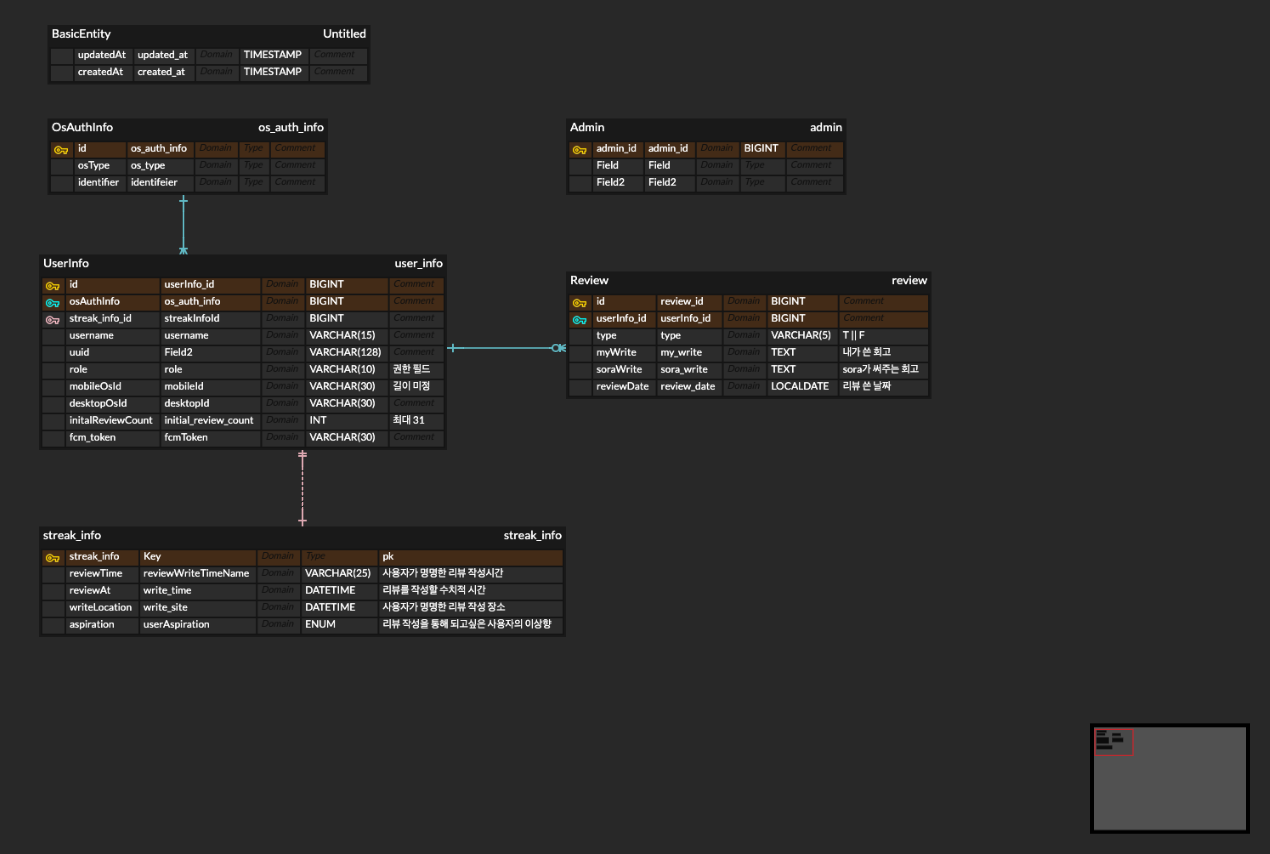
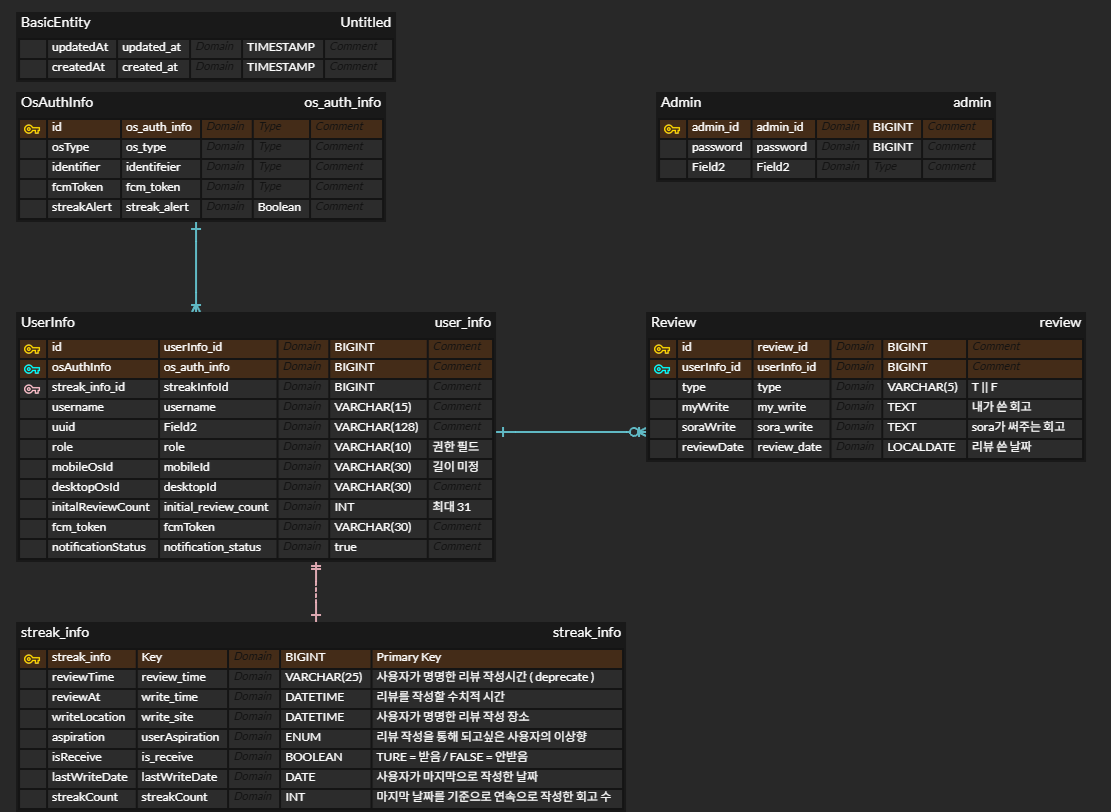
docs: readme 수정

diff --git a/README.md b/README.md
@@ -23,11 +23,11 @@
 
 🐚 소라의 마법에서는 사용자가 작성한 회고 내용에 대해 **AI Agent**인 소라가 응답을 제공합니다. 내가 원하는 **성격**의 소라와 이야기를 하다 보면, 마법처럼 **회고 습관을 쉽고 재미있게** 그리고 확실하게 만들 수 있을 거예요!
 
-<a href="https://magicofconch.notion.site/fae88808dbe2490ca833fb4ef6cc49c1?pvs=74"> 서비스 공식 페이지 </a> 
+<a href="https://magicofconch.notion.site/fae88808dbe2490ca833fb4ef6cc49c1?pvs=74"> 서비스 공식 페이지 </a>
 
 # 🎈 주요 기능
 
-## 회고 작성 및 AI 리뷰 
+## 회고 작성 및 AI 리뷰
 
 <table>
   <tr>
@@ -40,13 +40,23 @@
       리뷰는 LLM을 통해서 스트리밍 됩니다. <br>
     </td>
   </tr>
+
+  <tr>
+    <td>
+      <img src="./readme/CalendarView.gif" width="300">
+    </td>
+    <td>
+      작성한 회고를 캘린더뷰 형태로 제공합니다. <br>
+      사용자가 작성한 회고와 리뷰 타입에 대해서 고동의 색깔이 다르게 디스플레이됩니다. <br>
+      월별로 몇번의 회고를 작성했는지 확인할 수 있습니다. <br>
+    </td>
+  </tr>
 </table>
 
-
 ## 기술 스택 & 아키텍처
+
 ![architecture](./readme/architecture.png)
 
 ## ERD 설계
+
 ![erd](./readme/sora-erd.png)
-
-
